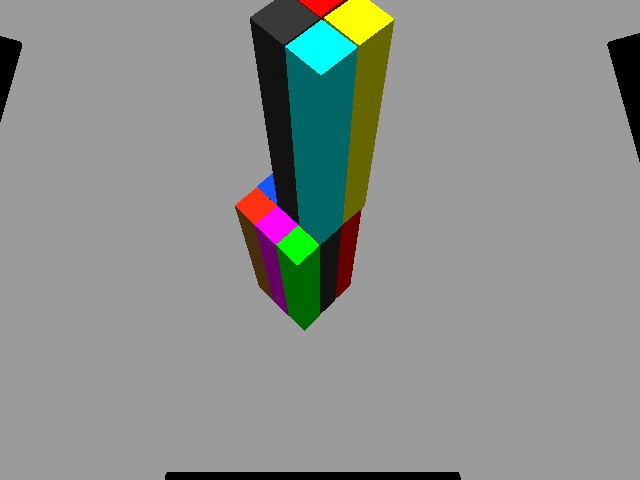
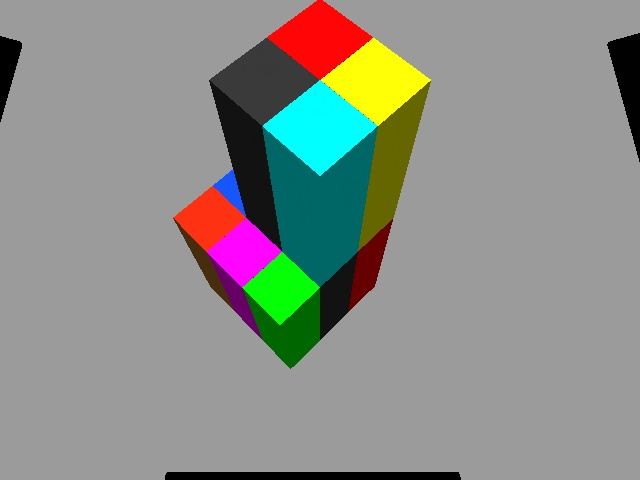
imaging with new block sizes

Changed region(s): [[0.25, 0.0, 0.6875, 0.7812]]

diff --git a/src/generate_schematic/src/generate_schematic.py b/src/generate_schematic/src/generate_schematic.py
@@ -35,9 +35,10 @@ def main():
     for i in reversed(range(len(layers))):
         print("i", i)
         cur_layer = apply_square_filter(layers[i])
+        print(cur_layer)
         if len(cur_layer) != 0:
             filtered_layers.append(cur_layer)
-        if not np.isclose(layers[i][0][2], 0):
+        if not np.isclose(layers[i][0][2], 0) and len(cur_layer) != 0:
             layers[i-1] = np.vstack((layers[i-1], cur_layer - Z_DIFF_3D))
     world_coordinates = np.vstack(filtered_layers)
     world_coordinates = gutils.unique_rows(world_coordinates)

diff --git a/src/global_constants/src/global_constants/constants.py b/src/global_constants/src/global_constants/constants.py
@@ -6,9 +6,9 @@ import numpy as np
 IMG_DIR = "images"
 
 
-BLOCK_X = 0.05
-BLOCK_Y = 0.05
-BLOCK_Z = .4
+BLOCK_X = 0.09
+BLOCK_Y = 0.09
+BLOCK_Z = .355
 
 x, y = 2, 0
 CAMERA_DATA = [
